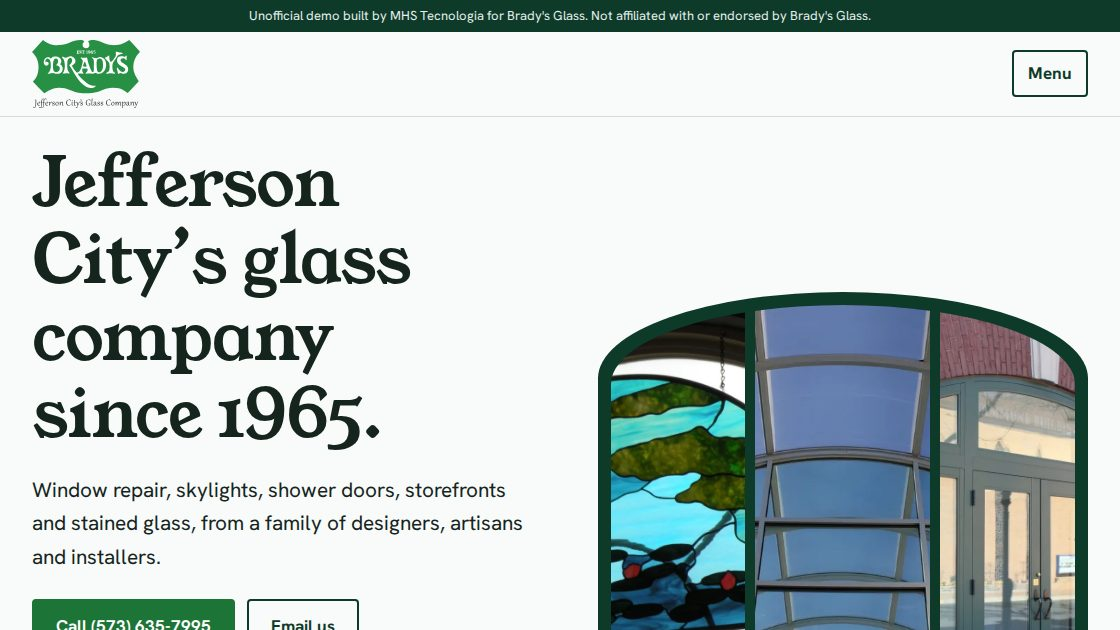
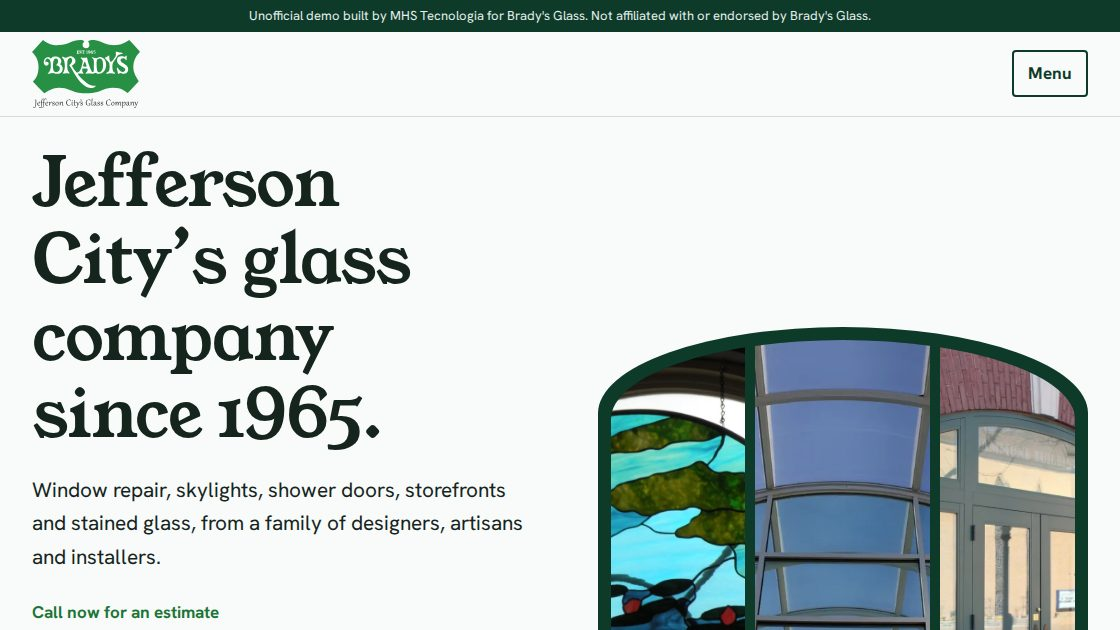
Previews: 64 ativos

Changed region(s): [[0.5312, 0.4524, 0.9688, 1.0], [0.0312, 0.9349, 0.3125, 1.0]]

diff --git a/bradys-glass-jefferson-city-mo/custom-glass.html b/bradys-glass-jefferson-city-mo/custom-glass.html
@@ -65,6 +65,7 @@ a{color:var(--green);text-underline-offset:.16em}
 .hero-t{padding-bottom:clamp(36px,8vh,84px);align-self:center}
 .hero-t p{font-size:clamp(1.125rem,1rem + .5vw,1.3rem);margin:20px 0 26px}
 .acts{display:flex;flex-wrap:wrap;gap:12px}
+.hero-t p.now{margin:0 0 8px;font-size:1.0625rem;font-weight:700;color:var(--green)}
 .hrs{margin:16px 0 0!important;font-size:1rem!important;color:var(--mut)}
 .win{background:var(--bottle);padding:13px 13px 0;border-radius:50% 50% 0 0/19% 19% 0 0;height:min(690px,calc(100svh - 176px));min-height:440px;width:100%;max-width:600px;justify-self:end}
 .win-in{position:relative;height:100%;display:grid;grid-template-columns:1fr 1.3fr 1fr;gap:10px;border-radius:50% 50% 0 0/18% 18% 0 0;overflow:hidden}
@@ -199,7 +200,8 @@ blockquote b{color:var(--ink)}
  .brand img{height:52px}
  .hero .wrap{grid-template-columns:1fr;gap:20px;padding-top:18px}
  .hero-t{padding-bottom:0}
- .hero-t p{margin:10px 0 14px;font-size:1.0625rem;line-height:1.45}
+ .hero-t p{margin:10px 0 12px;font-size:1.0625rem;line-height:1.45}
+ .hero-t p.now{margin:0 0 6px;font-size:1rem}
  .hrs{display:none}
  .acts .btn{flex:1 1 auto}
  .hero .btn.alt,.ph .btn.alt{display:none}
@@ -249,7 +251,7 @@ blockquote b{color:var(--ink)}
 <div class="acts" data-cta><a class="btn" href="tel:+15736357995">Call (573) 635-7995</a><a class="btn alt" href="mailto:bradysglass@bradysglass.com">Email us</a></div></div>
 <div class="arch"><div><img src="img/lily-arch-800.webp" srcset="img/lily-arch-480.webp 480w, img/lily-arch-800.webp 800w, img/lily-arch-1200.webp 1200w, img/lily-arch-1400.webp 1400w" sizes="(max-width:860px) 100vw, 560px" width="1400" height="1050" alt="An arched stained glass window with water lilies in blues and greens" loading="eager" fetchpriority="high"></div></div>
 </div></section><section class="sec dark"><div class="wrap par" data-par>
-<div class="par-t"><h2>Pick a glass</h2><p style="margin-top:14px">One parrot, photographed behind each of our custom glass patterns. Tap a sample to look through it. For other specialty glass, call us to check stock.</p>
+<div class="par-t"><h2>Pick a glass</h2><p style="margin-top:14px">One parrot, seen through each of our custom glass patterns. Tap a sample to look through it. For other specialty glass, call us to check stock.</p>
 <p class="par-c" aria-live="polite">Rain</p>
 <div class="sws" role="group" aria-label="Glass patterns"><button class="sw" type="button" data-id="69" aria-label="Antique reproduction" aria-pressed="false"><img src="img/sw69.webp" width="144" height="144" alt="" loading="lazy" decoding="async"></button><button class="sw" type="button" data-id="70" aria-label="Cross reeded" aria-pressed="false"><img src="img/sw70.webp" width="144" height="144" alt="" loading="lazy" decoding="async"></button><button class="sw" type="button" data-id="71" aria-label="Delta frosted" aria-pressed="false"><img src="img/sw71.webp" width="144" height="144" alt="" loading="lazy" decoding="async"></button><button class="sw" type="button" data-id="72" aria-label="Flemish" aria-pressed="false"><img src="img/sw72.webp" width="144" height="144" alt="" loading="lazy" decoding="async"></button><button class="sw" type="button" data-id="73" aria-label="Florex" aria-pressed="false"><img src="img/sw73.webp" width="144" height="144" alt="" loading="lazy" decoding="async"></button><button class="sw" type="button" data-id="74" aria-label="Frosted, velour or ground" aria-pressed="false"><img src="img/sw74.webp" width="144" height="144" alt="" loading="lazy" decoding="async"></button><button class="sw" type="button" data-id="75" aria-label="Frosted glue chip" aria-pressed="false"><img src="img/sw75.webp" width="144" height="144" alt="" loading="lazy" decoding="async"></button><button class="sw" type="button" data-id="76" aria-label="Glue chip" aria-pressed="false"><img src="img/sw76.webp" width="144" height="144" alt="" loading="lazy" decoding="async"></button><button class="sw" type="button" data-id="77" aria-label="Granito" aria-pressed="false"><img src="img/sw77.webp" width="144" height="144" alt="" loading="lazy" decoding="async"></button><button class="sw" type="button" data-id="78" aria-label="Grey or bronze" aria-pressed="false"><img src="img/sw78.webp" width="144" height="144" alt="" loading="lazy" decoding="async"></button><button class="sw" type="button" data-id="79" aria-label="Pattern 62" aria-pressed="false"><img src="img/sw79.webp" width="144" height="144" alt="" loading="lazy" decoding="async"></button><button class="sw" type="button" data-id="80" aria-label="Rain" aria-pressed="true"><img src="img/sw80.webp" width="144" height="144" alt="" loading="lazy" decoding="async"></button><button class="sw" type="button" data-id="81" aria-label="Reeded" aria-pressed="false"><img src="img/sw81.webp" width="144" height="144" alt="" loading="lazy" decoding="async"></button><button class="sw" type="button" data-id="82" aria-label="Seedy" aria-pressed="false"><img src="img/sw82.webp" width="144" height="144" alt="" loading="lazy" decoding="async"></button></div></div>
 <div class="par-v"><img src="img/par80-800.webp" srcset="img/par80-480.webp 480w, img/par80-800.webp 800w, img/par80-1100.webp 1100w" sizes="(max-width:860px) 100vw, 600px" width="1100" height="1100" alt="A blue and yellow parrot figure, half seen through patterned glass and half in the clear" loading="lazy" decoding="async"><img class="off" alt="" width="1100" height="1100"></div>
@@ -264,6 +266,8 @@ blockquote b{color:var(--ink)}
 <figure class="tile c4"><img src="img/cardinal-oval-800.webp" srcset="img/cardinal-oval-480.webp 480w, img/cardinal-oval-800.webp 800w, img/cardinal-oval-1200.webp 1200w, img/cardinal-oval-1400.webp 1400w" sizes="(max-width:860px) 50vw, 400px" width="1400" height="1050" alt="Oval panel with two birds" loading="lazy" decoding="async"><figcaption>Oval panel with two birds</figcaption></figure>
 <figure class="tile c4"><img src="img/rose-table-800.webp" srcset="img/rose-table-480.webp 480w, img/rose-table-800.webp 800w, img/rose-table-1200.webp 1200w, img/rose-table-1400.webp 1400w" sizes="(max-width:860px) 50vw, 400px" width="1400" height="1050" alt="Art glass with a rose" loading="lazy" decoding="async"><figcaption>Art glass with a rose</figcaption></figure>
 <figure class="tile c4 w"><img src="img/lunettes-800.webp" srcset="img/lunettes-480.webp 480w, img/lunettes-800.webp 800w, img/lunettes-1200.webp 1200w, img/lunettes-1400.webp 1400w" sizes="(max-width:860px) 100vw, 400px" width="1400" height="933" alt="Stained glass arches over shutters" loading="lazy" decoding="async"><figcaption>Stained glass arches over shutters</figcaption></figure>
+<figure class="tile c8 r2"><img src="img/capitol-panel-800.webp" srcset="img/capitol-panel-480.webp 480w, img/capitol-panel-800.webp 800w, img/capitol-panel-964.webp 964w" sizes="(max-width:860px) 50vw, 820px" width="964" height="700" alt="Capitol dome panel" loading="lazy" decoding="async"><figcaption>Capitol dome panel</figcaption></figure>
+<figure class="tile c4 r2"><img src="img/butterflies-800.webp" srcset="img/butterflies-480.webp 480w, img/butterflies-800.webp 800w, img/butterflies-1200.webp 1200w, img/butterflies-1400.webp 1400w" sizes="(max-width:860px) 50vw, 400px" width="1400" height="1867" alt="Glass butterfly sculpture lit up at night" loading="lazy" decoding="async"><figcaption>Butterfly sculpture</figcaption></figure>
 </div>
 <details class="more"><summary>See 4 more pieces</summary><div class="lead">
 <figure class="tile c6 r2"><img src="img/flag-door-800.webp" srcset="img/flag-door-480.webp 480w, img/flag-door-800.webp 800w, img/flag-door-1200.webp 1200w, img/flag-door-1400.webp 1400w" sizes="(max-width:860px) 50vw, 620px" width="1400" height="1050" alt="Flag panel in a door" loading="lazy" decoding="async"><figcaption>Flag panel in a door</figcaption></figure>

diff --git a/bradys-glass-jefferson-city-mo/index.html b/bradys-glass-jefferson-city-mo/index.html
@@ -65,6 +65,7 @@ a{color:var(--green);text-underline-offset:.16em}
 .hero-t{padding-bottom:clamp(36px,8vh,84px);align-self:center}
 .hero-t p{font-size:clamp(1.125rem,1rem + .5vw,1.3rem);margin:20px 0 26px}
 .acts{display:flex;flex-wrap:wrap;gap:12px}
+.hero-t p.now{margin:0 0 8px;font-size:1.0625rem;font-weight:700;color:var(--green)}
 .hrs{margin:16px 0 0!important;font-size:1rem!important;color:var(--mut)}
 .win{background:var(--bottle);padding:13px 13px 0;border-radius:50% 50% 0 0/19% 19% 0 0;height:min(690px,calc(100svh - 176px));min-height:440px;width:100%;max-width:600px;justify-self:end}
 .win-in{position:relative;height:100%;display:grid;grid-template-columns:1fr 1.3fr 1fr;gap:10px;border-radius:50% 50% 0 0/18% 18% 0 0;overflow:hidden}
@@ -199,7 +200,8 @@ blockquote b{color:var(--ink)}
  .brand img{height:52px}
  .hero .wrap{grid-template-columns:1fr;gap:20px;padding-top:18px}
  .hero-t{padding-bottom:0}
- .hero-t p{margin:10px 0 14px;font-size:1.0625rem;line-height:1.45}
+ .hero-t p{margin:10px 0 12px;font-size:1.0625rem;line-height:1.45}
+ .hero-t p.now{margin:0 0 6px;font-size:1rem}
  .hrs{display:none}
  .acts .btn{flex:1 1 auto}
  .hero .btn.alt,.ph .btn.alt{display:none}
@@ -254,6 +256,7 @@ blockquote b{color:var(--ink)}
 <section class="hero"><div class="wrap">
 <div class="hero-t"><h1>Jefferson City’s glass company since 1965.</h1>
 <p>Window repair, skylights, shower doors, storefronts and stained glass, from a family of designers, artisans and installers.</p>
+<p class="now">Call now for an estimate</p>
 <div class="acts" data-cta><a class="btn" href="tel:+15736357995">Call (573) 635-7995</a><a class="btn alt" href="mailto:bradysglass@bradysglass.com">Email us</a></div>
 <p class="hrs">Mon to Fri, 7:30 am to 4:00 pm</p></div>
 <div class="win"><div class="win-in">
@@ -273,7 +276,7 @@ blockquote b{color:var(--ink)}
 </div></section>
 
 <section class="sec dark"><div class="wrap par" data-par>
-<div class="par-t"><h2>Same parrot. Fourteen kinds of glass.</h2><p style="margin-top:14px">We photographed one parrot behind each of our custom glass patterns. Tap a sample to look through it, then come see the real thing at our showroom or call to check stock.</p>
+<div class="par-t"><h2>Same parrot. Fourteen kinds of glass.</h2><p style="margin-top:14px">One parrot, seen through each of our custom glass patterns. Tap a sample to look through it, then come see the real thing at our showroom or call to check stock.</p>
 <p class="par-c" aria-live="polite">Rain</p>
 <div class="sws" role="group" aria-label="Glass patterns"><button class="sw" type="button" data-id="69" aria-label="Antique reproduction" aria-pressed="false"><img src="img/sw69.webp" width="144" height="144" alt="" loading="lazy" decoding="async"></button><button class="sw" type="button" data-id="70" aria-label="Cross reeded" aria-pressed="false"><img src="img/sw70.webp" width="144" height="144" alt="" loading="lazy" decoding="async"></button><button class="sw" type="button" data-id="71" aria-label="Delta frosted" aria-pressed="false"><img src="img/sw71.webp" width="144" height="144" alt="" loading="lazy" decoding="async"></button><button class="sw" type="button" data-id="72" aria-label="Flemish" aria-pressed="false"><img src="img/sw72.webp" width="144" height="144" alt="" loading="lazy" decoding="async"></button><button class="sw" type="button" data-id="73" aria-label="Florex" aria-pressed="false"><img src="img/sw73.webp" width="144" height="144" alt="" loading="lazy" decoding="async"></button><button class="sw" type="button" data-id="74" aria-label="Frosted, velour or ground" aria-pressed="false"><img src="img/sw74.webp" width="144" height="144" alt="" loading="lazy" decoding="async"></button><button class="sw" type="button" data-id="75" aria-label="Frosted glue chip" aria-pressed="false"><img src="img/sw75.webp" width="144" height="144" alt="" loading="lazy" decoding="async"></button><button class="sw" type="button" data-id="76" aria-label="Glue chip" aria-pressed="false"><img src="img/sw76.webp" width="144" height="144" alt="" loading="lazy" decoding="async"></button><button class="sw" type="button" data-id="77" aria-label="Granito" aria-pressed="false"><img src="img/sw77.webp" width="144" height="144" alt="" loading="lazy" decoding="async"></button><button class="sw" type="button" data-id="78" aria-label="Grey or bronze" aria-pressed="false"><img src="img/sw78.webp" width="144" height="144" alt="" loading="lazy" decoding="async"></button><button class="sw" type="button" data-id="79" aria-label="Pattern 62" aria-pressed="false"><img src="img/sw79.webp" width="144" height="144" alt="" loading="lazy" decoding="async"></button><button class="sw" type="button" data-id="80" aria-label="Rain" aria-pressed="true"><img src="img/sw80.webp" width="144" height="144" alt="" loading="lazy" decoding="async"></button><button class="sw" type="button" data-id="81" aria-label="Reeded" aria-pressed="false"><img src="img/sw81.webp" width="144" height="144" alt="" loading="lazy" decoding="async"></button><button class="sw" type="button" data-id="82" aria-label="Seedy" aria-pressed="false"><img src="img/sw82.webp" width="144" height="144" alt="" loading="lazy" decoding="async"></button></div></div>
 <div class="par-v"><img src="img/par80-800.webp" srcset="img/par80-480.webp 480w, img/par80-800.webp 800w, img/par80-1100.webp 1100w" sizes="(max-width:860px) 100vw, 600px" width="1100" height="1100" alt="A blue and yellow parrot figure, half seen through patterned glass and half in the clear" loading="lazy" decoding="async"><img class="off" alt="" width="1100" height="1100"></div>

diff --git a/bradys-glass-jefferson-city-mo/windows.html b/bradys-glass-jefferson-city-mo/windows.html
@@ -65,6 +65,7 @@ a{color:var(--green);text-underline-offset:.16em}
 .hero-t{padding-bottom:clamp(36px,8vh,84px);align-self:center}
 .hero-t p{font-size:clamp(1.125rem,1rem + .5vw,1.3rem);margin:20px 0 26px}
 .acts{display:flex;flex-wrap:wrap;gap:12px}
+.hero-t p.now{margin:0 0 8px;font-size:1.0625rem;font-weight:700;color:var(--green)}
 .hrs{margin:16px 0 0!important;font-size:1rem!important;color:var(--mut)}
 .win{background:var(--bottle);padding:13px 13px 0;border-radius:50% 50% 0 0/19% 19% 0 0;height:min(690px,calc(100svh - 176px));min-height:440px;width:100%;max-width:600px;justify-self:end}
 .win-in{position:relative;height:100%;display:grid;grid-template-columns:1fr 1.3fr 1fr;gap:10px;border-radius:50% 50% 0 0/18% 18% 0 0;overflow:hidden}
@@ -199,7 +200,8 @@ blockquote b{color:var(--ink)}
  .brand img{height:52px}
  .hero .wrap{grid-template-columns:1fr;gap:20px;padding-top:18px}
  .hero-t{padding-bottom:0}
- .hero-t p{margin:10px 0 14px;font-size:1.0625rem;line-height:1.45}
+ .hero-t p{margin:10px 0 12px;font-size:1.0625rem;line-height:1.45}
+ .hero-t p.now{margin:0 0 6px;font-size:1rem}
  .hrs{display:none}
  .acts .btn{flex:1 1 auto}
  .hero .btn.alt,.ph .btn.alt{display:none}
@@ -270,7 +272,7 @@ blockquote b{color:var(--ink)}
 <div><h2>Torn screen? We can fix that.</h2>
 <p>Screens take a lot of abuse, from children’s hands to cat claws to the weather. Getting a tight fit and a good seal is harder than most homeowners expect.</p>
 <p>The Brady’s team has replaced thousands of screen windows and doors over the years.</p></div>
-<img src="img/screen-800.webp" srcset="img/screen-480.webp 480w, img/screen-800.webp 800w" sizes="(max-width:860px) 100vw, 580px" width="800" height="536" alt="A window screen with a large tear in it" loading="lazy" decoding="async">
+<img src="img/racks-800.webp" srcset="img/racks-480.webp 480w, img/racks-800.webp 800w, img/racks-1200.webp 1200w, img/racks-1400.webp 1400w" sizes="(max-width:860px) 100vw, 580px" width="1400" height="933" alt="Large sheets of glass standing on racks at the Brady’s shop" loading="lazy" decoding="async">
 </div></section>
 <section class="cta dark"><div class="wrap">
 <div><h2>Ready to get started?</h2><p>One window or ten, call us and tell us what’s going on.</p>

diff --git a/bradys-glass-jefferson-city-mo/about.html b/bradys-glass-jefferson-city-mo/about.html
@@ -65,6 +65,7 @@ a{color:var(--green);text-underline-offset:.16em}
 .hero-t{padding-bottom:clamp(36px,8vh,84px);align-self:center}
 .hero-t p{font-size:clamp(1.125rem,1rem + .5vw,1.3rem);margin:20px 0 26px}
 .acts{display:flex;flex-wrap:wrap;gap:12px}
+.hero-t p.now{margin:0 0 8px;font-size:1.0625rem;font-weight:700;color:var(--green)}
 .hrs{margin:16px 0 0!important;font-size:1rem!important;color:var(--mut)}
 .win{background:var(--bottle);padding:13px 13px 0;border-radius:50% 50% 0 0/19% 19% 0 0;height:min(690px,calc(100svh - 176px));min-height:440px;width:100%;max-width:600px;justify-self:end}
 .win-in{position:relative;height:100%;display:grid;grid-template-columns:1fr 1.3fr 1fr;gap:10px;border-radius:50% 50% 0 0/18% 18% 0 0;overflow:hidden}
@@ -199,7 +200,8 @@ blockquote b{color:var(--ink)}
  .brand img{height:52px}
  .hero .wrap{grid-template-columns:1fr;gap:20px;padding-top:18px}
  .hero-t{padding-bottom:0}
- .hero-t p{margin:10px 0 14px;font-size:1.0625rem;line-height:1.45}
+ .hero-t p{margin:10px 0 12px;font-size:1.0625rem;line-height:1.45}
+ .hero-t p.now{margin:0 0 6px;font-size:1rem}
  .hrs{display:none}
  .acts .btn{flex:1 1 auto}
  .hero .btn.alt,.ph .btn.alt{display:none}

diff --git a/bradys-glass-jefferson-city-mo/commercial.html b/bradys-glass-jefferson-city-mo/commercial.html
@@ -65,6 +65,7 @@ a{color:var(--green);text-underline-offset:.16em}
 .hero-t{padding-bottom:clamp(36px,8vh,84px);align-self:center}
 .hero-t p{font-size:clamp(1.125rem,1rem + .5vw,1.3rem);margin:20px 0 26px}
 .acts{display:flex;flex-wrap:wrap;gap:12px}
+.hero-t p.now{margin:0 0 8px;font-size:1.0625rem;font-weight:700;color:var(--green)}
 .hrs{margin:16px 0 0!important;font-size:1rem!important;color:var(--mut)}
 .win{background:var(--bottle);padding:13px 13px 0;border-radius:50% 50% 0 0/19% 19% 0 0;height:min(690px,calc(100svh - 176px));min-height:440px;width:100%;max-width:600px;justify-self:end}
 .win-in{position:relative;height:100%;display:grid;grid-template-columns:1fr 1.3fr 1fr;gap:10px;border-radius:50% 50% 0 0/18% 18% 0 0;overflow:hidden}
@@ -199,7 +200,8 @@ blockquote b{color:var(--ink)}
  .brand img{height:52px}
  .hero .wrap{grid-template-columns:1fr;gap:20px;padding-top:18px}
  .hero-t{padding-bottom:0}
- .hero-t p{margin:10px 0 14px;font-size:1.0625rem;line-height:1.45}
+ .hero-t p{margin:10px 0 12px;font-size:1.0625rem;line-height:1.45}
+ .hero-t p.now{margin:0 0 6px;font-size:1rem}
  .hrs{display:none}
  .acts .btn{flex:1 1 auto}
  .hero .btn.alt,.ph .btn.alt{display:none}

diff --git a/bradys-glass-jefferson-city-mo/contact.html b/bradys-glass-jefferson-city-mo/contact.html
@@ -65,6 +65,7 @@ a{color:var(--green);text-underline-offset:.16em}
 .hero-t{padding-bottom:clamp(36px,8vh,84px);align-self:center}
 .hero-t p{font-size:clamp(1.125rem,1rem + .5vw,1.3rem);margin:20px 0 26px}
 .acts{display:flex;flex-wrap:wrap;gap:12px}
+.hero-t p.now{margin:0 0 8px;font-size:1.0625rem;font-weight:700;color:var(--green)}
 .hrs{margin:16px 0 0!important;font-size:1rem!important;color:var(--mut)}
 .win{background:var(--bottle);padding:13px 13px 0;border-radius:50% 50% 0 0/19% 19% 0 0;height:min(690px,calc(100svh - 176px));min-height:440px;width:100%;max-width:600px;justify-self:end}
 .win-in{position:relative;height:100%;display:grid;grid-template-columns:1fr 1.3fr 1fr;gap:10px;border-radius:50% 50% 0 0/18% 18% 0 0;overflow:hidden}
@@ -199,7 +200,8 @@ blockquote b{color:var(--ink)}
  .brand img{height:52px}
  .hero .wrap{grid-template-columns:1fr;gap:20px;padding-top:18px}
  .hero-t{padding-bottom:0}
- .hero-t p{margin:10px 0 14px;font-size:1.0625rem;line-height:1.45}
+ .hero-t p{margin:10px 0 12px;font-size:1.0625rem;line-height:1.45}
+ .hero-t p.now{margin:0 0 6px;font-size:1rem}
  .hrs{display:none}
  .acts .btn{flex:1 1 auto}
  .hero .btn.alt,.ph .btn.alt{display:none}

diff --git a/bradys-glass-jefferson-city-mo/shower-doors.html b/bradys-glass-jefferson-city-mo/shower-doors.html
@@ -65,6 +65,7 @@ a{color:var(--green);text-underline-offset:.16em}
 .hero-t{padding-bottom:clamp(36px,8vh,84px);align-self:center}
 .hero-t p{font-size:clamp(1.125rem,1rem + .5vw,1.3rem);margin:20px 0 26px}
 .acts{display:flex;flex-wrap:wrap;gap:12px}
+.hero-t p.now{margin:0 0 8px;font-size:1.0625rem;font-weight:700;color:var(--green)}
 .hrs{margin:16px 0 0!important;font-size:1rem!important;color:var(--mut)}
 .win{background:var(--bottle);padding:13px 13px 0;border-radius:50% 50% 0 0/19% 19% 0 0;height:min(690px,calc(100svh - 176px));min-height:440px;width:100%;max-width:600px;justify-self:end}
 .win-in{position:relative;height:100%;display:grid;grid-template-columns:1fr 1.3fr 1fr;gap:10px;border-radius:50% 50% 0 0/18% 18% 0 0;overflow:hidden}
@@ -199,7 +200,8 @@ blockquote b{color:var(--ink)}
  .brand img{height:52px}
  .hero .wrap{grid-template-columns:1fr;gap:20px;padding-top:18px}
  .hero-t{padding-bottom:0}
- .hero-t p{margin:10px 0 14px;font-size:1.0625rem;line-height:1.45}
+ .hero-t p{margin:10px 0 12px;font-size:1.0625rem;line-height:1.45}
+ .hero-t p.now{margin:0 0 6px;font-size:1rem}
  .hrs{display:none}
  .acts .btn{flex:1 1 auto}
  .hero .btn.alt,.ph .btn.alt{display:none}

diff --git a/bradys-glass-jefferson-city-mo/window-film.html b/bradys-glass-jefferson-city-mo/window-film.html
@@ -65,6 +65,7 @@ a{color:var(--green);text-underline-offset:.16em}
 .hero-t{padding-bottom:clamp(36px,8vh,84px);align-self:center}
 .hero-t p{font-size:clamp(1.125rem,1rem + .5vw,1.3rem);margin:20px 0 26px}
 .acts{display:flex;flex-wrap:wrap;gap:12px}
+.hero-t p.now{margin:0 0 8px;font-size:1.0625rem;font-weight:700;color:var(--green)}
 .hrs{margin:16px 0 0!important;font-size:1rem!important;color:var(--mut)}
 .win{background:var(--bottle);padding:13px 13px 0;border-radius:50% 50% 0 0/19% 19% 0 0;height:min(690px,calc(100svh - 176px));min-height:440px;width:100%;max-width:600px;justify-self:end}
 .win-in{position:relative;height:100%;display:grid;grid-template-columns:1fr 1.3fr 1fr;gap:10px;border-radius:50% 50% 0 0/18% 18% 0 0;overflow:hidden}
@@ -199,7 +200,8 @@ blockquote b{color:var(--ink)}
  .brand img{height:52px}
  .hero .wrap{grid-template-columns:1fr;gap:20px;padding-top:18px}
  .hero-t{padding-bottom:0}
- .hero-t p{margin:10px 0 14px;font-size:1.0625rem;line-height:1.45}
+ .hero-t p{margin:10px 0 12px;font-size:1.0625rem;line-height:1.45}
+ .hero-t p.now{margin:0 0 6px;font-size:1rem}
  .hrs{display:none}
  .acts .btn{flex:1 1 auto}
  .hero .btn.alt,.ph .btn.alt{display:none}
